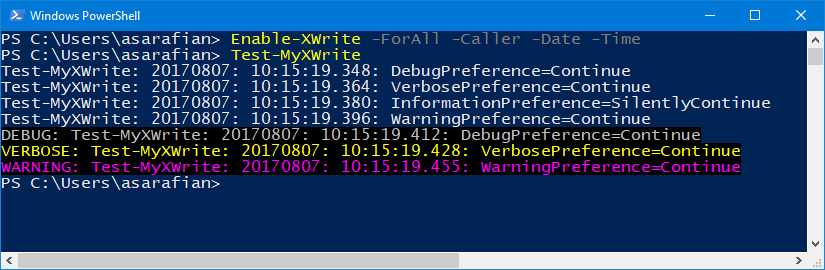
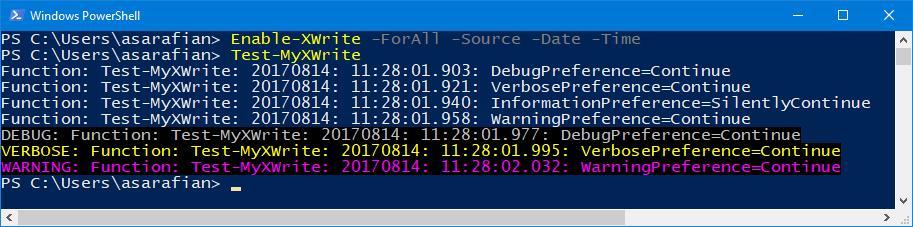
Added the support for -Source parameter Fixed issues with parameter set

diff --git a/README.md b/README.md
@@ -13,7 +13,8 @@ PowerShell normal output | PowerShell output with XWrite enabled
 
 The output can be enhanced with the following extra information:
 
-- The **Caller** that is the name of the script or module that execute the `Write-` cmdlet.
+- The **Source** that is the source script or module name that executed the `Write-` cmdlet.
+- The **Caller** that is the name of the script or module that executed the `Write-` cmdlet.
 - The **Date** that is the date part of the current date.
 - The **Time** that is the time part of the current date.
 
@@ -78,7 +79,7 @@ Test-MyXWrite
 
 ```powershell
 # Enable XWrite advanced output enhancement
-Enable-XWrite -ForAll -Caller -Date -Time
+Enable-XWrite -ForAll -Source -Date -Time
 
 # Invoke test function to execute the Write-* commands
 Test-MyXWrite
@@ -141,37 +142,38 @@ WARNING: Test-MyXWrite.ps1: Hello
 
 ```powershell
 # Enhance all supported Write-* cmdlets and specify the artifacts in the output
-Enable-XWrite -ForAll -Caller -Date -Time
+Enable-XWrite -ForAll -Source -Date -Time
 
 # Enhance all supported Write-* cmdlets and specify custom format
-Enable-XWrite -ForAll -Format "%caller%: %date%: %time%: "
+Enable-XWrite -ForAll -Format "%source%: %caller%: %date%: %time%: "
 ```
 
 When executing `Test-MyXWrite.ps1` the output is
 
 ```text
-Test-MyXWrite.ps1: 20170804: 10:57:27.831: Hello
-DEBUG: Test-MyXWrite.ps1: 20170804: 10:57:27.845: Hello
-VERBOSE: Test-MyXWrite.ps1: 20170804: 10:57:27.858: Hello
-Test-MyXWrite.ps1: 20170804: 10:57:27.871: Hello
-WARNING: Test-MyXWrite.ps1: 20170804: 10:57:27.886: Hello
+Script: Test-MyXWrite.ps1: 20170804: 10:57:27.831: Hello
+DEBUG: Script: Test-MyXWrite.ps1: 20170804: 10:57:27.845: Hello
+VERBOSE: Script: Test-MyXWrite.ps1: 20170804: 10:57:27.858: Hello
+Script: Test-MyXWrite.ps1: 20170804: 10:57:27.871: Hello
+WARNING: Script: Test-MyXWrite.ps1: 20170804: 10:57:27.886: Hello
 ```
 
-**Notice** the extra information `Test-MyXWrite.ps1: 20170804: 10:57:27.845: ` between the e.g. `DEBUG` and `Hello`.
+**Notice** the extra information `Script: Test-MyXWrite.ps1: 20170804: 10:57:27.845: ` between the e.g. `DEBUG` and `Hello`.
 
 # Formatting
 
 The module will add a prefix to the output with the following logic:
 
 - When no parameters are provided then only the **Caller** is added. e.g. `Test-MyXWrite.ps1`.
-- When the `-Caller` or `-Date` or `-Time` is specified, then their respected values are added using the optional value of the `-Separator` parameter with value `: `.
-- When `-Format` is specified then that custom format is used. The format can interpret `%caller%`,`%date%` and `%time%` variables.
+- When the `-Source` or `-Date` or `-Time` is specified, then their respected values are added using the optional value of the `-Separator` parameter with value `: `.
+- When `-Format` is specified then that custom format is used. The format can interpret `%source%`,`%caller%`,`%date%` and `%time%` variables.
 
 This matrix that puts all above together in simple mapping:
 
 | Variable | Parameter | Example value | Remarks |
 |:-------- | --------- | ------------- | ------- |
-| `%caller%` | `-Caller` | Test-MyXWrite.ps1 | The name of the caller script or cmdlet |
+| `%source%` | `-Source` | Test-MyXWrite.ps1 | The source of the caller which can be `Script`, `Function` or  the module name |
+| `%caller%` | No parameter | Test-MyXWrite.ps1 | The name of the caller script or cmdlet |
 | `%date%` | `-Date` | 20170804 | the date stamp formatted as `yyyyMMdd` |
 | `%time%` | `-Time` | 10:57:27.858 | the time stamp formatted as `hh:mm:ss.fff` |
 
@@ -324,12 +326,12 @@ VERBOSE: When disabled
 When disabled
 WARNING: When disabled
 
-<ScriptBlock>: 20170804: 11:25:42.435: When enabled
-<ScriptBlock>: 20170804: 11:25:42.449: When enabled
-DEBUG: <ScriptBlock>: 20170804: 11:25:42.461: When enabled
-VERBOSE: <ScriptBlock>: 20170804: 11:25:42.479: When enabled
-<ScriptBlock>: 20170804: 11:25:42.496: When enabled
-WARNING: <ScriptBlock>: 20170804: 11:25:42.509: When enabled
+<ScriptBlock>: When enabled
+<ScriptBlock>: When enabled
+DEBUG: <ScriptBlock>: When enabled
+VERBOSE: <ScriptBlock>: When enabled
+<ScriptBlock>: When enabled
+WARNING: <ScriptBlock>: When enabled
 ```
 
 **Notice** that the **Caller** is now `<ScriptBlock>` as this is an unsaved script. If you save it then it becomes the name of the script.

diff --git a/CHANGELOG.md b/CHANGELOG.md
@@ -1,3 +1,12 @@
+**1.1**
+
+- New segment in output `-Source` or `%source%` which can be 
+  - `Script`
+  - `Function`
+  - a module name
+- Fix `Enable-XWrite` parameter set names
+- Parameter `-Caller` is removed. Caller will be always outputed.
+
 **1.0**
 
 XWrite PowerShell module introduced
